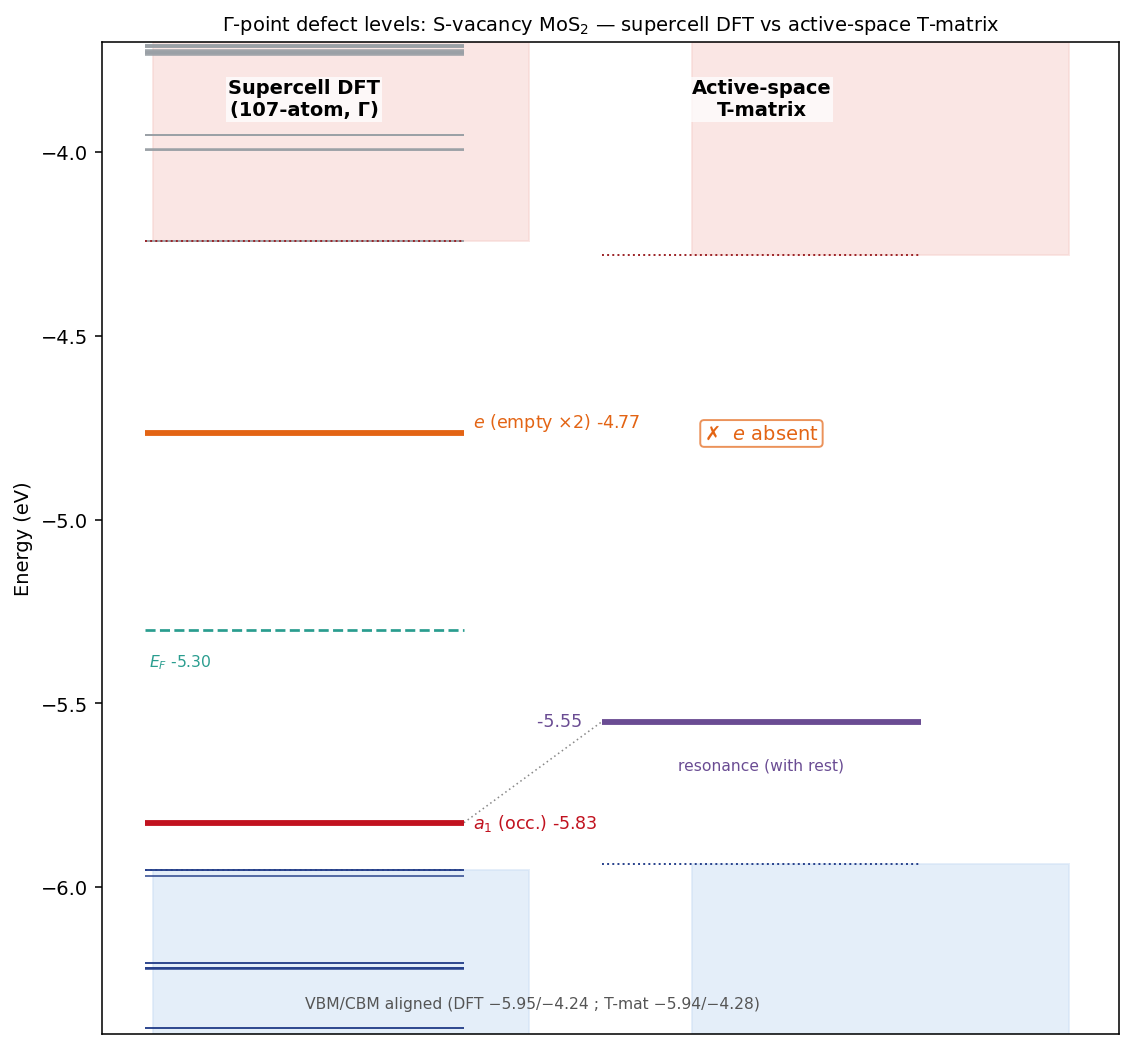
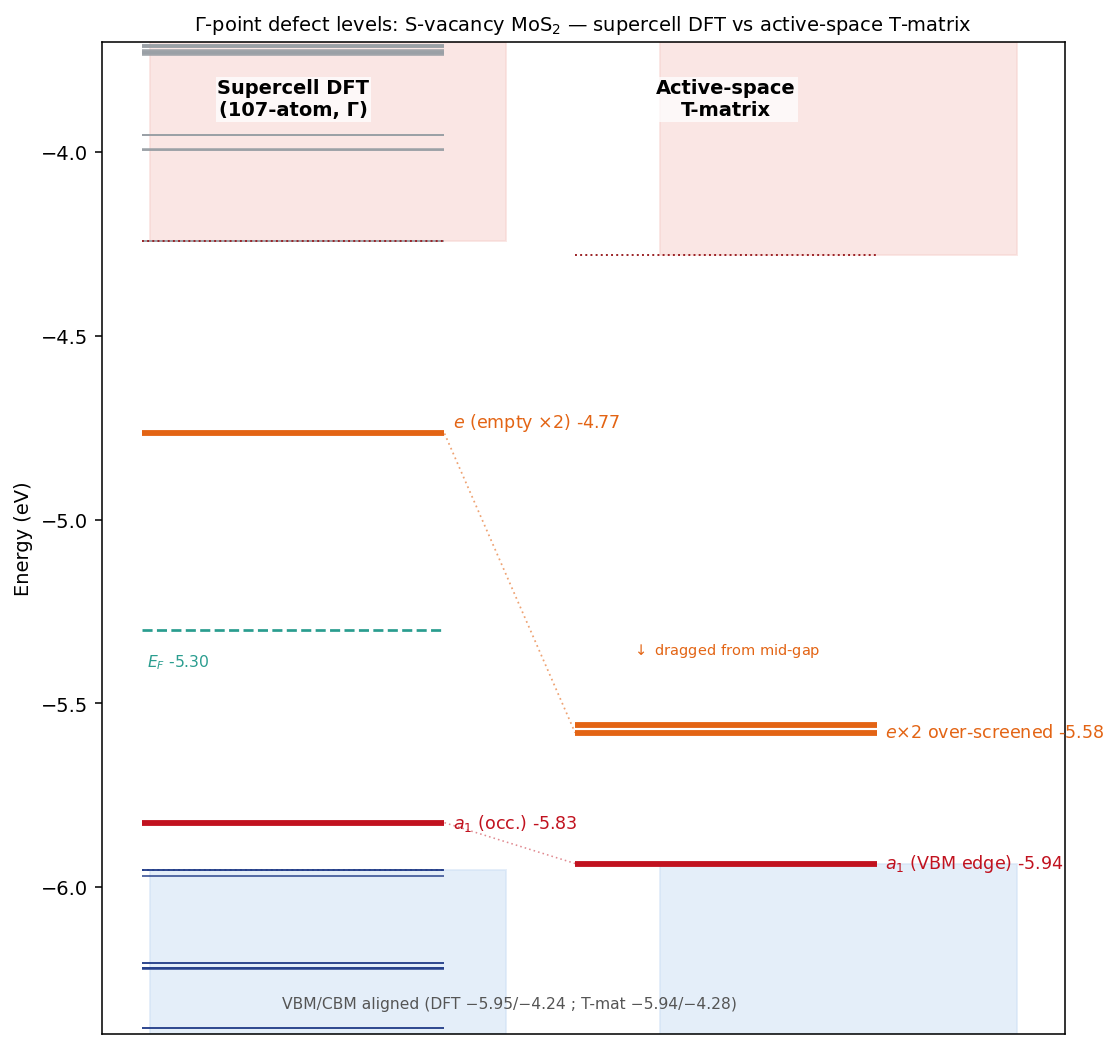
Results: add defect-induced dDOS (Fig 15); correct the e over-screening story
Add the three-panel defect-induced dDOS (explicit 21-band bare M; active-space 11-band bare M; 11-band + 2nd-order rest dressing). Panels (1) and (2) are nearly identical -- e peak deep in the gap -- while the 2nd-order rest dressing over-screens the e ~1.1 eV down onto the VBM. This isolates the cause: the 2nd-order Born Sigma, not the active-space size or the Wannier downfolding.

Correct two now-superseded claims this analysis overturns: Fig 13 (remade) drew the active-space result as 'e absent / single a1 resonance' -- it is actually the over-screened e doublet at +0.36 eV with the a1 pinned to the VBM edge. Fig 14 text re-attributed the shortfall to the rest dressing alone (bare M binds the e at 11 OR 21 bands). Updated catalog row; renumbered Figs 15->20.

diff --git a/docs/pages/results.html b/docs/pages/results.html
@@ -92,13 +92,18 @@ $$A(k,\omega)=-\tfrac1\pi\,\mathrm{Im}\,\mathrm{Tr}\,\big[\,\omega-H_0(k)-\Sigma
 <p><em>Figure 12. Multiband spectral function from the <strong>un-aligned</strong> block (<code>pot_align=&#x27;none&#x27;</code>, same $\omega_0=-5.955$ eV and window as Figure 10). It is essentially identical to Figure 10. Dropping the alignment shifts the bare $M$ diagonal by a <strong>uniform</strong> $-0.42$ eV (the G$=0$ component of $\Delta V$, $\mathrm{std}=0$), but in the dilute-defect Dyson $H_{\rm eff}=E+\tilde V/N_k$ that constant is divided by $N_k=144\to\sim3$ meV, and the genuinely non-constant (off-diagonal) part differs by only $0.5\%$ of $\lVert M\rVert$. The result: the a$_1$-like resonance stays at $-5.57$ eV ($\pm0.02$) and the $e$ doublet stays absent. So the alignment is <strong>not</strong> the cause of the missing $e$ — the G$=0$ offset washes out in the dilute limit, consistent with the structural diagnosis.</em></p>
 <h3>Benchmark against the supercell: where do the defect levels sit?</h3>
 <p>How faithful is that resonance? The direct check is the S-vacancy <strong>supercell</strong> itself — a $6\times6$ MoS$_2$ cell (107 atoms, one S removed), whose Γ-point Kohn–Sham levels <em>are</em> the defect levels. Aligning the two pictures on a common VBM/CBM:</p>
-<p><img src="../assets/vtilde_defect_levels.png" alt="Gamma-point defect-level diagram: supercell DFT shows an a1 singlet just above the VBM and an e doublet mid-gap, while the active-space T-matrix shows one resonance near the a1 and no e level." style="max-width:100%;height:auto;display:block;margin:1.2rem auto;border:1px solid #d0d7de;border-radius:6px"></p>
-<p><em>Figure 13. Γ-point defect levels of the S-vacancy — <strong>supercell DFT</strong> (left) vs the <strong>active-space $T$-matrix</strong> (right), VBM/CBM aligned. DFT gives the textbook $C_{3v}$ pattern of the three Mo dangling bonds: an <strong>$a_1$ singlet</strong> (HOMO, occupied) at $-5.83$ eV, only $+0.13$ eV above the VBM, and an <strong>$e$ doublet</strong> (LUMO, empty) at $-4.77$ eV, $+1.19$ eV above the VBM (deep in the gap); the Fermi level $E_F=-5.30$ eV lies between them; bulk gap $1.71$ eV. The $T$-matrix (with rest-space) reproduces the band edges (gap $1.66$ eV) and a single resonance at $-5.55$ eV — essentially the $a_1$, placed $\sim0.28$ eV too high — but <strong>misses the $e$ doublet entirely</strong>. The reason is concrete: the rest dressing uses a single static reference $\omega_0=\varepsilon_{\rm VBM}$, so it binds the level living </em>at<em> the reference (the $a_1$, $+0.13$ eV) but not the one far from it (the $e$, $+1.19$ eV), where $\Sigma(\omega_0)$ is the wrong dressing and the bare $M$ binds nothing. <strong>We tested this</strong> with a second static reference $\omega_0'=-4.8$ eV (Figure 11): it does <strong>not</strong> bind the $e$ either — the upper-gap spectral weight is unchanged. So a shifted static reference is insufficient; the $e$'s absence is <strong>structural</strong> (the downfolded $\tilde V$ / active space cannot pull a conduction-derived state into the gap), and recovering it likely needs the full frequency-dependent $\Sigma_{\rm rest}(\omega)$ or a larger active space, not merely a different reference energy.</em></p>
+<p><img src="../assets/vtilde_defect_levels.png" alt="Gamma-point defect-level diagram: supercell DFT shows an a1 singlet just above the VBM and an e doublet mid-gap; the active-space T-matrix with 2nd-order rest dressing keeps the a1 at the VBM edge but over-screens the e doublet down from mid-gap to near the VBM." style="max-width:100%;height:auto;display:block;margin:1.2rem auto;border:1px solid #d0d7de;border-radius:6px"></p>
+<p><em>Figure 13. Γ-point defect levels of the S-vacancy — <strong>supercell DFT</strong> (left) vs the <strong>active-space $T$-matrix</strong> (right), VBM/CBM aligned. DFT gives the textbook $C_{3v}$ pattern of the three Mo dangling bonds: an <strong>$a_1$ singlet</strong> (HOMO, occupied) at $-5.83$ eV, only $+0.13$ eV above the VBM, and an <strong>$e$ doublet</strong> (LUMO, empty) at $-4.77$ eV, $+1.19$ eV above the VBM (deep in the gap); the Fermi level $E_F=-5.30$ eV lies between them; bulk gap $1.71$ eV. The active-space $T$-matrix <strong>with the 2nd-order rest dressing</strong> $\tilde V=M+\Sigma$ (right) reproduces the band edges (gap $1.66$ eV) and keeps the $a_1$ pinned to the VBM edge ($-5.94$, $+0.0005$), but the $e$ doublet is <strong>over-screened</strong>: instead of sitting mid-gap it is dragged down to $-5.58$ ($+0.36$), nearly onto the VBM. So the rest dressing does not </em>omit<em> the $e$ — it puts it at the wrong energy. (That $-5.6$ feature, which we first read as a single $a_1$-like resonance, is in fact the <strong>doubly-degenerate $e$</strong>, over-bound by $\sim1.1$ eV, with the true $a_1$ left at the VBM.) The next two figures pin the cause: the bare $M$ already binds the $e$ in the gap — at 11 <strong>or</strong> 21 bands — and it is the 2nd-order Born $\Sigma$ that over-screens it.</em></p>
 <h3>Resolved: an explicit 21-band $T$-matrix recovers the $e$ doublet</h3>
 <p>That diagnosis has a direct test: keep the conduction manifold <strong>explicitly</strong> instead of downfolding it. We did exactly that, in the most stripped-down form possible — <strong>no Wannier, no downfolding, no rest dressing</strong>. On the full $12\times12$ grid we built the bare Bloch matrix $M_{nk,mk'}=\langle nk|\Delta V|mk'\rangle$ over $\approx21$ bands per $k$ (NSCF bands $7$–$28$, spanning the window $[-11.8,+6]$ eV about the gap) — a single $3002\times3002$ matrix — and read the defect levels straight off it as the in-gap eigenvalues of $H_{\rm eff}=\mathrm{diag}(\varepsilon_{nk})+M/N_k$. There is no self-energy here ($\Sigma\equiv0$, so $\tilde V=M$); the DOS follows from the same matrix via $T=[1-VG^A]^{-1}V$ with $V=M/N_k$.</p>
 <p><img src="../assets/vtilde_explicit_dos.png" alt="Left: explicit non-Wannier T-matrix DOS in the gap, with a distinct in-gap e peak rising above the empty bare-host DOS. Right: defect-level diagram, explicit 21-band T-matrix (a1 singlet + e doublet) vs DFT supercell, VBM/CBM aligned." style="max-width:100%;height:auto;display:block;margin:1.2rem auto;border:1px solid #d0d7de;border-radius:6px"></p>
-<p><em>Figure 14. <strong>The explicit 21-band $T$-matrix recovers both defect levels.</strong> <strong>Left:</strong> density of states in the gap (zoomed) — the bare host (grey dashed) is empty between the band edges, while the $T$-matrix DOS (blue) carries a distinct <strong>in-gap peak</strong> ($12.6$ states/eV) at $-4.59$ eV: the $e$ state. <strong>Right:</strong> in-gap eigenvalues of $H_{\rm eff}=\mathrm{diag}(\varepsilon)+M/N_k$ vs the DFT supercell, VBM/CBM aligned. The explicit calculation gives an <strong>$a_1$ singlet</strong> at $-5.93$ eV (at the VBM edge, $+0.01$) and a <strong>doubly-degenerate $e$ at $-4.59$ eV</strong> ($+1.35$ above the VBM) — the full $C_{3v}$ $a_1\oplus e$ pattern of the three Mo dangling bonds, matching DFT ($a_1$ $-5.83/+0.13$; $e$ $-4.77/+1.19$) to $\lesssim0.18$ eV. The two-fold degeneracy of the $e$ ($-4.588$ twice) comes out automatically. So the missing $e$ in Figure 13 was the <strong>downfolding + 2nd-order (Born) rest dressing</strong>, not the physics: once enough conduction bands are kept explicitly, the conduction-derived $e$ is pulled into the gap. The $1/N_k$ normalization is essential — dropping it ($H=\mathrm{diag}(\varepsilon)+M$) yields $69$ spurious "in-gap" eigenvalues instead of three.</em></p>
-<p>This is the cleanest confirmation that the framework is sound and the earlier shortfall was an <em>approximation</em>, not a wall: the active-space + Born-$\Sigma$ pipeline traded the $e$ for speed; the explicit Bloch inversion — $\sim\!46$ min on one node for $M$, then a $3002\times3002$ solve — pays the $\mathcal{O}(N_b^2)$ price and gets it back. The remaining $\lesssim0.18$ eV offsets (the $e$ a touch high, the $a_1$ pinned to the VBM edge) are the finite $12\times12$ sampling and the 21-band truncation, not the qualitative structure.</p>
+<p><em>Figure 14. <strong>The explicit 21-band $T$-matrix recovers both defect levels.</strong> <strong>Left:</strong> density of states in the gap (zoomed) — the bare host (grey dashed) is empty between the band edges, while the $T$-matrix DOS (blue) carries a distinct <strong>in-gap peak</strong> ($12.6$ states/eV) at $-4.59$ eV: the $e$ state. <strong>Right:</strong> in-gap eigenvalues of $H_{\rm eff}=\mathrm{diag}(\varepsilon)+M/N_k$ vs the DFT supercell, VBM/CBM aligned. The explicit calculation gives an <strong>$a_1$ singlet</strong> at $-5.93$ eV (at the VBM edge, $+0.01$) and a <strong>doubly-degenerate $e$ at $-4.59$ eV</strong> ($+1.35$ above the VBM) — the full $C_{3v}$ $a_1\oplus e$ pattern of the three Mo dangling bonds, matching DFT ($a_1$ $-5.83/+0.13$; $e$ $-4.77/+1.19$) to $\lesssim0.18$ eV. The two-fold degeneracy of the $e$ ($-4.588$ twice) comes out automatically. So the shortfall in Figure 13 is the <strong>2nd-order (Born) rest dressing</strong> alone — not the active-space size or the downfolding: the bare $M$ already binds the $e$ even in the 11-band window, and the larger explicit space only refines its position (Figure 15 isolates this). The $1/N_k$ normalization is essential — dropping it ($H=\mathrm{diag}(\varepsilon)+M$) yields $69$ spurious "in-gap" eigenvalues instead of three.</em></p>
+<p>This is the cleanest confirmation that the framework is sound and the earlier shortfall was an <em>approximation</em>, not a wall: the active-space + Born-$\Sigma$ pipeline <strong>over-screened</strong> the $e$ (Figure 15); the explicit Bloch inversion — $\sim\!46$ min on one node for $M$, then a $3002\times3002$ solve — pays the $\mathcal{O}(N_b^2)$ price and gets it back at the right energy. The remaining $\lesssim0.18$ eV offsets (the $e$ a touch high, the $a_1$ pinned to the VBM edge) are the finite $12\times12$ sampling and the 21-band truncation, not the qualitative structure.</p>
+<h3>Pinpointing the cause: bare $M$ agrees, the 2nd-order dressing over-screens</h3>
+<p>The defect-induced $\Delta\mathrm{DOS}=-\tfrac1\pi\,\mathrm{Im}\,\mathrm{Tr}\,[G^A T G^A]$ makes the mechanism unmistakable. The bare host has no states in the gap, so every in-gap feature of $\Delta\mathrm{DOS}$ <em>is</em> a defect level; computed three ways on one common grid and broadening:</p>
+<p><img src="../assets/vtilde_ddos_three.png" alt="Three stacked defect-induced delta-DOS panels on a common axis: (1) explicit 21-band bare M and (2) active-space 11-band bare M are nearly identical with a tall e peak deep in the gap; (3) the 11-band with 2nd-order rest dressing has its e peak over-screened down to near the VBM, leaving the mid-gap flat." style="max-width:100%;height:auto;display:block;margin:1.2rem auto;border:1px solid #d0d7de;border-radius:6px"></p>
+<p><em>Figure 15. Defect-induced $\Delta\mathrm{DOS}$ of the S-vacancy, three treatments on one grid ($\eta=50$ meV). <strong>(1) explicit 21-band</strong> (bare $M$) and <strong>(2) active-space 11-band</strong> (bare $M$) are <strong>nearly identical</strong> — a tall, clean $e$ peak deep in the gap (at $-4.59$ / $-4.44$ eV, i.e. $+1.35$ / $+1.50$ above the VBM), with the shallow $a_1$ blended into the VBM edge. Neither the band count nor the Wannier/downfolding changes the bare-$M$ answer. <strong>(3) 11 bands $+$ 2nd-order rest space</strong> ($\tilde V=M+\Sigma$): the $e$ peak <strong>collapses $\sim1.1$ eV down to $-5.58$ eV</strong> ($+0.36$), nearly onto the VBM, leaving the mid-gap flat. That is the whole story of the "missing" $e$ — it is not omitted, it is dragged to the wrong energy by the Born self-energy. The negative dips at the band edges are the compensating spectral-weight depletion ($\int\Delta\mathrm{DOS}\,d\omega\simeq0$; Friedel/Levinson).</em></p>
+<p>The lesson is sharp: in this system the <strong>2nd-order (Born) rest dressing is an over-screening, not an improvement</strong> — the bare explicit $M$, paying the $\mathcal{O}(N_b^2)$ cost of carrying the conduction bands directly, is the more faithful object. A correct rest dressing here would need to go beyond 2nd order (or use the full frequency-dependent $\Sigma_{\rm rest}(\omega)$), not the static Born $\Sigma(\omega_0)$.</p>
 </section>
 <section id="sec-4"><h2>4. Wannier representation and locality (P5-b)</h2>
 <p>The textbook way to avoid the large $(N_b N_k)$ inversion on fine grids is the Koster–Slater / defect-Green's-function trick: rotate $\tilde V$ to a localized Wannier basis, $\tilde V^W(R',R)=\!\big[U^\dagger(k_f)\,\tilde V(k_f,k_i)\,U(k_i)\big]$ Fourier-transformed, and invert only on the defect's compact support. This requires $\tilde V^W(R',R)$ to be short-ranged — which in turn requires the Wannier rotation $U(k)$ to be in the <strong>same Bloch gauge</strong> as the $\psi_{nk}$ that build $M$ (exactly the consistency EDI's <code>edbloch2wane</code> enforces by construction).</p>
@@ -106,21 +111,21 @@ $$A(k,\omega)=-\tfrac1\pi\,\mathrm{Im}\,\mathrm{Tr}\,\big[\,\omega-H_0(k)-\Sigma
 <p>The fix is to <strong>re-Wannierize on the 150-band NSCF with the identical Wannier space</strong> — same projections (Mo:$d$, S:$p$), same windows, the same 11 valence bands 7–17 (<code>exclude_bands = 1-6,
 18-150</code>) — giving a <code>filukk</code> consistent with the evc that build $M$ (its Wannier interpolation reproduces the NSCF bands to $2\times10^{-5}$ eV).</p>
 <p><img src="../assets/vtilde_gauge_fix.png" alt="Electron-index decay of M before (left, q!=0 flat) and after (right, all q decay) the gauge fix." style="max-width:100%;height:auto;display:block;margin:1.2rem auto;border:1px solid #d0d7de;border-radius:6px"></p>
-<p><em>Figure 15. Electron-index decay $\lVert M^W(R_e;q)\rVert$. <strong>Left (old <code>filukk</code>, 17-band run):</strong> $q\!\neq\!0$ is flat — the gauge mismatch. <strong>Right (new <code>filukk</code>, re-Wannierized on the 150-band NSCF):</strong> every $q$ now decays together by $\sim10^{3}\times$ over $\sim5$ cells.</em></p>
+<p><em>Figure 16. Electron-index decay $\lVert M^W(R_e;q)\rVert$. <strong>Left (old <code>filukk</code>, 17-band run):</strong> $q\!\neq\!0$ is flat — the gauge mismatch. <strong>Right (new <code>filukk</code>, re-Wannierized on the 150-band NSCF):</strong> every $q$ now decays together by $\sim10^{3}\times$ over $\sim5$ cells.</em></p>
 <p><strong>With the consistent gauge, $\tilde V^W$ is localized.</strong> Wannierizing the downfolded potential $\tilde V=M+\Sigma$ itself (both Bloch indices) gives a short-ranged object: peaked on the defect cell and decaying $\sim250\times$, both as a two-point matrix and in the electron index for every momentum transfer $q$.</p>
 <p><img src="../assets/vtilde_W_locality.png" alt="Wannierized downfolded potential V~^W: both-index locality (left, old flat vs new peaked+decaying) and electron-index decay (right, all q decay)." style="max-width:100%;height:auto;display:block;margin:1.2rem auto;border:1px solid #d0d7de;border-radius:6px"></p>
-<p><em>Figure 16. Wannierization of $\tilde V$ and its locality. <strong>Left:</strong> both-index $\lVert\tilde V^W(R',R)\rVert_F$ by shell $\max(|R'|,|R|)$ — flat with the mismatched gauge (red), but with <code>filukk_150</code> (blue) it peaks on the defect cell ($\sim3$ cells from the Wannier origin) and decays $\sim250\times$. <strong>Right:</strong> electron-index $\lVert\tilde V^W(R_e;q)\rVert$ decays $\sim10^{3}\times$ for every $q$ — $\tilde V^W$ is genuinely short-ranged.</em></p>
+<p><em>Figure 17. Wannierization of $\tilde V$ and its locality. <strong>Left:</strong> both-index $\lVert\tilde V^W(R',R)\rVert_F$ by shell $\max(|R'|,|R|)$ — flat with the mismatched gauge (red), but with <code>filukk_150</code> (blue) it peaks on the defect cell ($\sim3$ cells from the Wannier origin) and decays $\sim250\times$. <strong>Right:</strong> electron-index $\lVert\tilde V^W(R_e;q)\rVert$ decays $\sim10^{3}\times$ for every $q$ — $\tilde V^W$ is genuinely short-ranged.</em></p>
 <p>A real-space cut makes the localization concrete. The <strong>on-site</strong> block $\tilde V^W_{ij}(R,R)$ (same cell $R$, an $11\times11$ Wannier matrix) is largest on the defect cell — here $R_d=(3,3)$, dominant orbital $|\tilde V^W_{55}(R_d,R_d)|=0.52$ Ry — and for a fixed pair $(i,j)$ it falls off with the minimum-image distance of $R$ from the defect:</p>
 <p><img src="../assets/vtilde_onsite_decay.png" alt="On-site |V~^W_ij(R,R)| for a fixed Wannier pair vs distance from the defect; drops 0.52 Ry to ~1e-3 in one cell, envelope decay length ~2 Angstrom." style="max-width:100%;height:auto;display:block;margin:1.2rem auto;border:1px solid #d0d7de;border-radius:6px"></p>
-<p><em>Figure 17. On-site downfolded potential $|\tilde V^W_{ij}(R,R)|$ for a fixed Wannier pair (dominant $i\!=\!j\!=\!6$; $(1,1)$ and $(1,2)$ shown for context) vs the minimum-image distance of cell $R$ from the defect. It drops from $0.52$ Ry on the defect cell to $\sim\!10^{-3}$ Ry one cell ($\sim3.2$ Å) away, with envelope decay length $\lambda\approx2$ Å ($<1$ cell) — the downfolded potential is confined to the defect site.</em></p>
+<p><em>Figure 18. On-site downfolded potential $|\tilde V^W_{ij}(R,R)|$ for a fixed Wannier pair (dominant $i\!=\!j\!=\!6$; $(1,1)$ and $(1,2)$ shown for context) vs the minimum-image distance of cell $R$ from the defect. It drops from $0.52$ Ry on the defect cell to $\sim\!10^{-3}$ Ry one cell ($\sim3.2$ Å) away, with envelope decay length $\lambda\approx2$ Å ($<1$ cell) — the downfolded potential is confined to the defect site.</em></p>
 <p>The localized $\tilde V^W$ is exactly what makes the truncated Koster–Slater inversion $T=[1-\tilde V^W G^A]^{-1}\tilde V^W$ converge quickly:</p>
 <div class="table-wrap"><table><thead><tr><th>$R_{\rm cut}$</th><th>subspace dim</th><th>$\lVert T\rVert$ old (mismatched gauge)</th><th>$\lVert T\rVert$ new (consistent gauge)</th></tr></thead><tbody><tr><td>2</td><td>275</td><td>0.057</td><td>0.057</td></tr><tr><td>3</td><td>539</td><td>0.19</td><td>1.72</td></tr><tr><td>4</td><td>891</td><td>0.59</td><td><strong>2.06 (99.6%)</strong></td></tr><tr><td>6</td><td>1584</td><td>2.06</td><td>2.06</td></tr></tbody></table></div>
 <p><img src="../assets/vtilde_ks_converge.png" alt="Koster-Slater truncation: ||T(Rcut)|| vs cutoff, converges by Rcut=4 with the consistent gauge." style="max-width:100%;height:auto;display:block;margin:1.2rem auto;border:1px solid #d0d7de;border-radius:6px"></p>
-<p><em>Figure 18. Koster–Slater truncation $\lVert T(R_{\rm cut})\rVert$ vs the cutoff radius (subspace dimension under each tick). With the gauge-consistent <code>filukk_150</code> (blue) the inversion converges by $R_{\rm cut}=4$ (dim 891, $\sim56\%$ of the full 1584); with the mismatched gauge (red) it only reaches the full value at the full subspace. The localized $\tilde V^W$ is what makes the truncation effective — the payoff of the gauge fix.</em></p>
+<p><em>Figure 19. Koster–Slater truncation $\lVert T(R_{\rm cut})\rVert$ vs the cutoff radius (subspace dimension under each tick). With the gauge-consistent <code>filukk_150</code> (blue) the inversion converges by $R_{\rm cut}=4$ (dim 891, $\sim56\%$ of the full 1584); with the mismatched gauge (red) it only reaches the full value at the full subspace. The localized $\tilde V^W$ is what makes the truncation effective — the payoff of the gauge fix.</em></p>
 <p>So the neutral S-vacancy potential <strong>is</strong> short-ranged, as expected — the earlier "flat $\tilde V^W$" was entirely the gauge mismatch, <em>not</em> a supercell-size or range-separation problem. On this coarse $12\times12$ grid the converged subspace ($R_{\rm cut}\!=\!4$) is $\sim56\%$ of the full one; on a finer $k$-grid the fixed $\sim$3–4-cell defect extent becomes a small fraction — which is where the Koster–Slater speed-up pays off. <strong>P3 (the $\tilde V$ block) and P5-a ($T_{PP}$ in the Bloch basis) use no Wannier rotation and were unaffected throughout.</strong></p>
 <p><strong>The fine-grid T-matrix, realized.</strong> The localized $\tilde V^W$ lets the active resummation use a <em>fine</em> host grid while still inverting only the small defect subspace. The host Green's function $G^A_{w'w}(\Delta R;\omega)=\frac1{N_f^2}\sum_{k}e^{2\pi i k\cdot\Delta R}\,[(\omega+i\eta)-H_W(k)]^{-1}$ is Wannier-interpolated on an $N_f\times N_f$ grid (from <code>hr.dat</code>), and $T=[1-\tilde V^W G^A]^{-1}\tilde V^W$ is solved in the <strong>891-dimensional</strong> defect subspace ($R_{\rm cut}=4$) — never the full $n_b N_f^2$ ($\approx10^5$ at $N_f=96$). It reproduces the coarse direct inversion at $N_f=12$ and converges by $N_f\approx24$:</p>
 <p><img src="../assets/vtilde_wannier_converge.png" alt="Wannier-basis active T-matrix converges with the host G^A k-grid: 2.06 at Nf=12 to 1.97 by Nf=24, flat to Nf=96." style="max-width:100%;height:auto;display:block;margin:1.2rem auto;border:1px solid #d0d7de;border-radius:6px"></p>
-<p><em>Figure 19. Convergence of the Wannier-basis active T-matrix $\lVert T_{PP}(\omega_0)\rVert$ with the host $G^A$ $k$-grid $N_f$. $N_f=12$ matches the coarse direct inversion (P5-a, $2.064$ Ry); the host converges by $N_f\approx24$ to $1.974$ Ry — the coarse $12\times12$ over-estimated by $\sim4.6\%$ (under-resolved band-edge DOS). The inversion stays $891$-dimensional at every $N_f$ — the payoff of the localized $\tilde V^W$.</em></p>
+<p><em>Figure 20. Convergence of the Wannier-basis active T-matrix $\lVert T_{PP}(\omega_0)\rVert$ with the host $G^A$ $k$-grid $N_f$. $N_f=12$ matches the coarse direct inversion (P5-a, $2.064$ Ry); the host converges by $N_f\approx24$ to $1.974$ Ry — the coarse $12\times12$ over-estimated by $\sim4.6\%$ (under-resolved band-edge DOS). The inversion stays $891$-dimensional at every $N_f$ — the payoff of the localized $\tilde V^W$.</em></p>
 </section>
 <section id="sec-5"><h2>5. On the magnitude of $\tilde V$</h2>
 <p>The Frobenius norm $\lVert\tilde V\rVert_F=100$ Ry can look alarming, but the <em>individual</em> matrix elements are small (RMS $\approx0.06$ Ry, on-site $\tilde V_{nn}\approx-0.12$ Ry): the norm is large only because it root-sum-squares $\sim2.5$ million matrix elements. The raw eigenvalues ($\tilde V\in[-80.6,+26.5]$ Ry, $M$ up to $211$ Ry) are the discrete-basis values; the physical scattering operator carries the BZ measure $1/N_k$ (it enters every $T$-matrix product through $G^A$), so the physical eigenvalues are $\sim\lambda/N_k\approx0.5$–$1.5$ Ry — bounded by $\max|\Delta V|\approx12$ Ry and giving a multiple-scattering parameter $\lVert\tilde V G^A\rVert\sim\mathcal O(1)$ (strong but sensible; the $T$-matrix resummation is essential, possibly resonant). See the <a href="note-kprime-normalization.html">$k'$-normalization note</a>.</p>

diff --git a/docs/index.html b/docs/index.html
@@ -13,7 +13,7 @@
 <tr><td><strong>Note: $k'$-sum normalization (P2&rarr;P3)</strong></td><td>Note</td><td>2026-05-28</td><td><span class="badge ok">Resolved</span></td><td>The rest-space $k'$-sum is a BZ-integral discretization ⇒ carries $1/N_k$, turning the naive $\sum_{k'}\!\approx\!-70$ Ry into the physical $\Sigma_{nn}\!\approx\!-0.5$ Ry. Closure sum rule + Born-limit mobility anchor to confirm (and expose any residual $N_{sc}$).</td><td><a href="pages/note-kprime-normalization.html">Open implementation note &rarr;</a></td></tr>
 <tr><td><strong>Downfolded potential $\tilde V=M+\Sigma$ (diagonal + full block)</strong></td><td>Result</td><td>2026-06-01</td><td><span class="badge prod">Complete</span></td><td>Beyond-Born $\tilde V$ on the MoS&#8322; active manifold from the per-$k'$ Sternheimer solve summed over the full BZ with $1/N_k$: diagonal (closure-validated) and the full $1584\times1584$ block via a pool-parallel $k'$-sum (Hermitian to $9\times10^{-12}$). Moderate rest dressing &mdash; VBM (band 13, $K$): $\tilde V_{nn}=+0.112$ Ry ($M=+0.246$, $\Sigma=-0.134$); $\lVert\Sigma\rVert/\lVert M\rVert=0.66$.</td><td><a href="pages/results.html">Open numerical results &rarr;</a></td></tr>
 <tr><td><strong>Active-space $T$-matrix $T_{PP}$ (P5-a)</strong></td><td>Result</td><td>2026-06-01</td><td><span class="badge prod">Complete</span></td><td>Coarse-grid resummation $T_{PP}=[1-\tilde V G^A]^{-1}\tilde V$ ($G^A$ carries $1/N_k$). Born-limit validated ($T\!\to\!\tilde V$ to $10^{-4}$). On the VBM (band 13), rest-space <em>redistributes</em> the resummed scattering &mdash; screens the forward channel but enhances the norm ($\lVert T_{PP}\rVert\!=\!177$ vs $\lVert T_M\rVert\!=\!70$ Ry); resonant at the band edge.</td><td><a href="pages/results.html#sec-2">Open results &rarr;</a></td></tr>
-<tr><td><strong>Defect levels recovered: explicit 21-band $T$-matrix</strong></td><td>Result</td><td>2026-06-08</td><td><span class="badge prod">Complete</span></td><td>Benchmarked against the S-vacancy supercell (&Gamma;-point KS levels): the active-space + Born-$\Sigma$ pipeline reproduces the $a_1$ but misses the $e$. Keeping the conduction manifold <em>explicitly</em> (raw Bloch $M=\langle nk|\Delta V|mk'\rangle$, $\approx21$ bands, $12\times12$, no Wannier / no downfolding) recovers the full $C_{3v}$ pattern &mdash; $a_1$ singlet ($+0.01$ eV above VBM) and $e$ doublet ($+1.35$ eV) &mdash; matching DFT to $\lesssim0.18$ eV. The missing $e$ was the approximation, not the physics.</td><td><a href="pages/results.html#sec-3">Open results &rarr;</a></td></tr>
+<tr><td><strong>Defect levels recovered: explicit 21-band $T$-matrix</strong></td><td>Result</td><td>2026-06-08</td><td><span class="badge prod">Complete</span></td><td>Benchmarked against the S-vacancy supercell (&Gamma;-point KS levels): the active-space + Born-$\Sigma$ pipeline keeps the $a_1$ but <em>over-screens</em> the $e$ (drags it to the VBM). Keeping the conduction manifold <em>explicitly</em> (raw Bloch $M=\langle nk|\Delta V|mk'\rangle$, $\approx21$ bands, $12\times12$, no Wannier / no downfolding) recovers the full $C_{3v}$ pattern &mdash; $a_1$ singlet ($+0.01$ eV above VBM) and $e$ doublet ($+1.35$ eV) &mdash; matching DFT to $\lesssim0.18$ eV. The 2nd-order rest dressing, not the active space, was the culprit.</td><td><a href="pages/results.html#sec-3">Open results &rarr;</a></td></tr>
 <tr><td><strong>QE-Hamiltonian Sternheimer validation</strong></td><td>Test</td><td>2026-05-31</td><td><span class="badge ok">Complete</span></td><td>Per-$k$ solve of $Q(\omega_0-H_0)Q$ via projected PCG (QE <code>h_psi</code> matvec): $\langle\psi|H_0|\psi\rangle\!=\!\varepsilon$ gate to $6\times10^{-10}$ eV across all ranks; explicit rest-band sum converges to the all-band Sternheimer value (Born limit $T\!\to\!V$ at $10^{-13}$ Ry).</td><td><a href="pages/plan.html">see P0&ndash;P3 in the plan &rarr;</a></td></tr>
 <tr class="planned"><td><strong>Rest dressing ladder convergence</strong></td><td>Test</td><td>&mdash;</td><td><span class="badge plan">Planned</span></td><td>Successive-ratio $\lVert\tilde V^{(m+1)}-\tilde V^{(m)}\rVert/\lVert\tilde V^{(m)}-\tilde V^{(m-1)}\rVert$ vs. rest $k$-grid and band cutoff (geometric rate $\rho\sim\lVert V_{QQ}\rVert/\Delta$).</td><td>&mdash;</td></tr>
 <tr><td><strong>Wannier representation &amp; Koster&ndash;Slater (P5-b)</strong></td><td>Result</td><td>2026-06-01</td><td><span class="badge ok">Resolved</span></td><td>Wannierizing $\tilde V$ needs $U(k)$ in the same Bloch gauge as the evc that build $M$. The original <code>filukk</code> (a separate 17-band run) mismatched the 150-band NSCF evc, so $M^W(R_e;q{\neq}0)$ came out flat. Fixed by re-Wannierizing on the 150-band NSCF (same Wannier space): $M^W$ now decays $\sim\!10^3\times$, $\tilde V^W$ is localized, and Koster&ndash;Slater converges by $R_{\rm cut}{=}4$. The neutral defect is short-ranged &mdash; no supercell / range-separation issue.</td><td><a href="pages/results.html#sec-3">Open results &rarr;</a></td></tr>

diff --git a/tools/p6_ddos_three.py b/tools/p6_ddos_three.py
@@ -1,0 +1,65 @@
+#!/usr/bin/env python3
+"""Defect-induced ΔDOS(ω) = -1/π Im Tr[G^A T G^A] for three treatments, on one common (ω-grid, η):
+  (1) explicit summation, 21 bands, raw Bloch (bare M, no rest dressing)   [from p6_explicit_dos.npz]
+  (2) active-space 11 bands (bare M, no rest dressing)
+  (3) active-space 11 bands + 2nd-order rest space (dressed Ṽ = M + Σ, Σ from the full bands)
+ΔDOS ≈ 0 in the gap for the bare host, so the in-gap features ARE the defect levels (a1, e)."""
+import numpy as np, matplotlib; matplotlib.use("Agg"); import matplotlib.pyplot as plt
+from scipy.io import FortranFile
+RY=13.605693122994; ETA=0.05
+
+# --- case 1: explicit 21-band (already computed, same grid & eta) ---
+d=np.load("p6_explicit_dos.npz")
+oms=d["oms"]; VBM=float(d["VBM"]); CBM=float(d["CBM"])
+ddos1=d["dos"]-d["dos0"]
+
+# --- load the 11-band block (ε, bare M, dressed Ṽ) ---
+def load(fn):
+    fb=FortranFile(fn,"r")
+    N_A,nk,nk_use,nbndskip=fb.read_ints(np.int32)
+    fb.read_reals(np.float64); fb.read_ints(np.int32)
+    eps=fb.read_reals(np.float64)*RY; N=int(N_A)
+    M=fb.read_record(np.complex128).reshape((N,N),order="F")
+    fb.read_record(np.complex128)                       # Σ
+    Vt=fb.read_record(np.complex128).reshape((N,N),order="F")
+    fb.close(); return int(nk),eps,M,Vt
+nk,eps,M,Vt=load("vtilde_block.dat")
+
+def ddos(eps,nk,mat,oms,eta):
+    N=len(eps); I=np.eye(N); V=(1.0/nk)*mat*RY; out=np.empty(len(oms))
+    for j,om in enumerate(oms):
+        GA=1.0/(om+1j*eta-eps)
+        T=np.linalg.solve(I-V*GA[None,:],V)             # T=[1-VG^A]^{-1}V
+        out[j]=-(1/np.pi)*np.imag(np.sum(GA*GA*np.diag(T)))   # Tr[G^A T G^A]
+    return out
+ddos2=ddos(eps,nk,M,oms,ETA)                            # 11-band bare M
+ddos3=ddos(eps,nk,Vt,oms,ETA)                           # 11-band + 2nd-order rest
+np.savez("p6_ddos_three.npz",oms=oms,ddos1=ddos1,ddos2=ddos2,ddos3=ddos3,VBM=VBM,CBM=CBM)
+
+def peak(dd,lo=0.05,hi=0.02):
+    m=(oms>VBM+lo)&(oms<CBM-hi); i=np.argmax(np.where(m,dd,-1e9)); return oms[i],dd[i]
+
+cases=[("(1) explicit summation — 21 bands, bare $M$",ddos1,"#1f3b73"),
+       ("(2) active space — 11 bands, bare $M$",ddos2,"#2a7a2a"),
+       ("(3) 11 bands + 2nd-order rest space — $\\tilde V=M+\\Sigma$",ddos3,"#c1121f")]
+fig,axs=plt.subplots(3,1,figsize=(8.6,9),sharex=True)
+for ax,(ttl,dd,c) in zip(axs,cases):
+    ax.axvspan(oms[0],VBM,color="#cfe0f5",alpha=.5); ax.axvspan(CBM,oms[-1],color="#f6d3cf",alpha=.5)
+    ax.axhline(0,color="#bbb",lw=.6); ax.plot(oms,dd,c=c,lw=1.8)
+    ax.fill_between(oms,0,dd,where=(dd>0),color=c,alpha=.18)
+    pe,ph=peak(dd)
+    ax.annotate(f"$e$ peak @ {pe:.2f} eV",xy=(pe,ph),xytext=(pe+0.12,ph*0.65),
+                fontsize=9,color=c,arrowprops=dict(arrowstyle="->",color=c))
+    for e,nm,col in [(-5.83,"DFT $a_1$","#666"),(-4.77,"DFT $e$","#999")]:
+        ax.axvline(e,color=col,lw=.9,ls=":")
+        if ax is axs[0]: ax.text(e,ax.get_ylim()[1],nm,color=col,fontsize=8,rotation=90,va="top",ha="right")
+    ax.set_title(ttl,fontsize=10.5,loc="left"); ax.set_ylabel("$\\Delta$DOS (1/eV)")
+    ax.text(VBM-0.02,ax.get_ylim()[1]*0.9,"VBM",ha="right",fontsize=7,color="#26408b")
+    ax.text(CBM+0.02,ax.get_ylim()[1]*0.9,"CBM",ha="left",fontsize=7,color="#9b2226")
+axs[-1].set_xlim(VBM-0.25,CBM+0.15); axs[-1].set_xlabel("$\\omega$ (eV)")
+fig.suptitle("Defect-induced $\\Delta$DOS of the MoS$_2$ S-vacancy (12$\\times$12, $\\eta=50$ meV)",fontsize=12,y=0.997)
+plt.tight_layout(); plt.savefig("p6_ddos_three.png",dpi=140,bbox_inches="tight")
+print("wrote p6_ddos_three.png")
+print(f"e-peak  (1) explicit : {peak(ddos1)[0]:.3f} eV  (VBM+{peak(ddos1)[0]-VBM:.2f})")
+print(f"e-peak  (2) bare-M 11: {peak(ddos2)[0]:.3f} eV  (VBM+{peak(ddos2)[0]-VBM:.2f})")
+print(f"e-peak  (3) dressed  : {peak(ddos3)[0]:.3f} eV  (VBM+{peak(ddos3)[0]-VBM:.2f})")

diff --git a/tools/plot_supercell_levels.py b/tools/plot_supercell_levels.py
@@ -28,8 +28,10 @@ print(f"a1: {a1-VBM:+.3f} eV above VBM     e: {e_lvl-VBM:+.3f} above VBM ({e_lvl
 for j in range(homo-5,lumo+6):
     print(f"   state {j+1}: {ev[j]:+.4f} eV  occ={occ[j]:.2f}")
 
-# ----- active-space T-matrix result (this project) -----
-VBM_t,CBM_t=-5.937,-4.279; res_t=-5.55     # with-rest defect resonance
+# ----- active-space T-matrix result (this project), 2nd-order rest dressing -----
+# in-gap eigenvalues of H_eff=diag(eps)+Vtilde/N_k (vtilde_block.dat): a1 survives at the VBM edge;
+# the e doublet is over-screened down toward the VBM (its true mid-gap position dragged to +0.36 eV)
+VBM_t,CBM_t=-5.937,-4.279; a1_t=-5.936; e_t=-5.580
 
 fig,ax=plt.subplots(figsize=(8.2,7.6)); lo,hi=-6.4,-3.7
 xA=(0.05,0.42); xB=(0.58,0.95)             # two columns
@@ -47,19 +49,20 @@ ax.hlines(a1,*xA,color="#c1121f",lw=3,zorder=6)
 ax.hlines(e_lvl,xA[0],xA[1],color="#e36414",lw=3,zorder=6)
 ax.text(xA[1]+0.01,a1,f"$a_1$ (occ.) {a1:.2f}",va="center",fontsize=9,color="#c1121f")
 ax.text(xA[1]+0.01,e_lvl,f"$e$ (empty ×{e_deg}) {e_lvl:.2f}",va="bottom",fontsize=9,color="#e36414")
-# T-matrix: the single resonance + a marker for the missing e
-ax.hlines(res_t,*xB,color="#6a4c93",lw=3,zorder=6)
-ax.text(xB[0]-0.01,res_t,f"{res_t:.2f}  ",va="center",ha="right",fontsize=9,color="#6a4c93")
-ax.text((xB[0]+xB[1])/2,res_t-0.13,"resonance (with rest)",ha="center",fontsize=8,color="#6a4c93")
-ax.text((xB[0]+xB[1])/2,e_lvl,"✗  $e$ absent",ha="center",va="center",fontsize=10,color="#e36414",
-        bbox=dict(facecolor="white",alpha=0.7,edgecolor="#e36414",boxstyle="round,pad=0.2"))
+# T-matrix (2nd-order rest): a1 survives at the VBM edge; e doublet over-screened down toward the VBM
+ax.hlines(a1_t,*xB,color="#c1121f",lw=3,zorder=6)
+ax.text(xB[1]+0.01,a1_t,f"$a_1$ (VBM edge) {a1_t:.2f}",va="center",fontsize=9,color="#c1121f")
+ax.hlines(e_t,*xB,color="#e36414",lw=3,zorder=6); ax.hlines(e_t+0.02,*xB,color="#e36414",lw=3,zorder=6)
+ax.text(xB[1]+0.01,e_t,f"$e$×2 over-screened {e_t:.2f}",va="center",fontsize=9,color="#e36414")
+ax.text((xB[0]+xB[1])/2,e_t+0.20,"$\\downarrow$ dragged from mid-gap",ha="center",va="bottom",fontsize=7.5,color="#e36414")
 # edges + Fermi
 for (x0,x1),vb,cb in [(xA,VBM,CBM),(xB,VBM_t,CBM_t)]:
     ax.hlines(vb,x0,x1,color="#26408b",lw=1,ls=":"); ax.hlines(cb,x0,x1,color="#9b2226",lw=1,ls=":")
 ax.hlines(EF,xA[0],xA[1],color="#2a9d8f",lw=1.4,ls="--")
 ax.text(xA[0]+0.005,EF-0.10,f"$E_F$ {EF:.2f}",fontsize=8,color="#2a9d8f")
-# guide line linking a1 <-> resonance
-ax.plot([xA[1],xB[0]],[a1,res_t],color="#888",lw=0.8,ls=(0,(1,2)))
+# guide lines linking DFT <-> T-matrix levels (the e slopes steeply down -> over-screened)
+ax.plot([xA[1],xB[0]],[a1,a1_t],color="#c1121f",lw=0.8,ls=(0,(1,2)),alpha=.5)
+ax.plot([xA[1],xB[0]],[e_lvl,e_t],color="#e36414",lw=0.9,ls=(0,(1,2)),alpha=.6)
 ax.text(0.5,lo+0.07,"VBM/CBM aligned (DFT −5.95/−4.24 ; T-mat −5.94/−4.28)",ha="center",fontsize=8,color="#555")
 ax.set_xlim(0,1.18); ax.set_ylim(lo,hi); ax.set_xticks([]); ax.set_ylabel("Energy (eV)")
 ax.set_title("Γ-point defect levels: S-vacancy MoS$_2$ — supercell DFT vs active-space T-matrix",fontsize=10)

diff --git a/tools/build_site.py b/tools/build_site.py
@@ -407,10 +407,11 @@ CATALOG = [
      '<a href="pages/results.html#sec-2">Open results &rarr;</a>'),
     ("Defect levels recovered: explicit 21-band $T$-matrix", "Result", "2026-06-08", "prod", "Complete",
      "Benchmarked against the S-vacancy supercell (&Gamma;-point KS levels): the active-space + Born-$\\Sigma$ "
-     "pipeline reproduces the $a_1$ but misses the $e$. Keeping the conduction manifold <em>explicitly</em> "
-     "(raw Bloch $M=\\langle nk|\\Delta V|mk'\\rangle$, $\\approx21$ bands, $12\\times12$, no Wannier / no downfolding) "
-     "recovers the full $C_{3v}$ pattern &mdash; $a_1$ singlet ($+0.01$ eV above VBM) and $e$ doublet "
-     "($+1.35$ eV) &mdash; matching DFT to $\\lesssim0.18$ eV. The missing $e$ was the approximation, not the physics.",
+     "pipeline keeps the $a_1$ but <em>over-screens</em> the $e$ (drags it to the VBM). Keeping the conduction "
+     "manifold <em>explicitly</em> (raw Bloch $M=\\langle nk|\\Delta V|mk'\\rangle$, $\\approx21$ bands, $12\\times12$, "
+     "no Wannier / no downfolding) recovers the full $C_{3v}$ pattern &mdash; $a_1$ singlet ($+0.01$ eV above VBM) and "
+     "$e$ doublet ($+1.35$ eV) &mdash; matching DFT to $\\lesssim0.18$ eV. The 2nd-order rest dressing, not the active "
+     "space, was the culprit.",
      '<a href="pages/results.html#sec-3">Open results &rarr;</a>'),
     ("QE-Hamiltonian Sternheimer validation", "Test", "2026-05-31", "ok", "Complete",
      "Per-$k$ solve of $Q(\\omega_0-H_0)Q$ via projected PCG (QE <code>h_psi</code> matvec): "

diff --git a/content/note_tmatrix_results.md b/content/note_tmatrix_results.md
@@ -267,23 +267,20 @@ How faithful is that resonance? The direct check is the S-vacancy **supercell** 
 MoS$_2$ cell (107 atoms, one S removed), whose Γ-point Kohn–Sham levels *are* the defect levels.
 Aligning the two pictures on a common VBM/CBM:
 
-![Gamma-point defect-level diagram: supercell DFT shows an a1 singlet just above the VBM and an e doublet mid-gap, while the active-space T-matrix shows one resonance near the a1 and no e level.](../assets/vtilde_defect_levels.png)
+![Gamma-point defect-level diagram: supercell DFT shows an a1 singlet just above the VBM and an e doublet mid-gap; the active-space T-matrix with 2nd-order rest dressing keeps the a1 at the VBM edge but over-screens the e doublet down from mid-gap to near the VBM.](../assets/vtilde_defect_levels.png)
 
 *Figure 13. Γ-point defect levels of the S-vacancy — **supercell DFT** (left) vs the **active-space
 $T$-matrix** (right), VBM/CBM aligned. DFT gives the textbook $C_{3v}$ pattern of the three Mo dangling
 bonds: an **$a_1$ singlet** (HOMO, occupied) at $-5.83$ eV, only $+0.13$ eV above the VBM, and an
 **$e$ doublet** (LUMO, empty) at $-4.77$ eV, $+1.19$ eV above the VBM (deep in the gap); the Fermi level
-$E_F=-5.30$ eV lies between them; bulk gap $1.71$ eV. The $T$-matrix (with rest-space) reproduces the
-band edges (gap $1.66$ eV) and a single resonance at $-5.55$ eV — essentially the $a_1$, placed
-$\sim0.28$ eV too high — but **misses the $e$ doublet entirely**. The reason is concrete: the rest
-dressing uses a single static reference $\omega_0=\varepsilon_{\rm VBM}$, so it binds the level living
-*at* the reference (the $a_1$, $+0.13$ eV) but not the one far from it (the $e$, $+1.19$ eV), where
-$\Sigma(\omega_0)$ is the wrong dressing and the bare $M$ binds nothing. **We tested this** with a second
-static reference $\omega_0'=-4.8$ eV (Figure 11): it does **not** bind the $e$ either — the upper-gap
-spectral weight is unchanged. So a shifted static reference is insufficient; the $e$'s absence is
-**structural** (the downfolded $\tilde V$ / active space cannot pull a conduction-derived state into the
-gap), and recovering it likely needs the full frequency-dependent $\Sigma_{\rm rest}(\omega)$ or a larger
-active space, not merely a different reference energy.*
+$E_F=-5.30$ eV lies between them; bulk gap $1.71$ eV. The active-space $T$-matrix **with the 2nd-order
+rest dressing** $\tilde V=M+\Sigma$ (right) reproduces the band edges (gap $1.66$ eV) and keeps the $a_1$
+pinned to the VBM edge ($-5.94$, $+0.0005$), but the $e$ doublet is **over-screened**: instead of sitting
+mid-gap it is dragged down to $-5.58$ ($+0.36$), nearly onto the VBM. So the rest dressing does not *omit*
+the $e$ — it puts it at the wrong energy. (That $-5.6$ feature, which we first read as a single
+$a_1$-like resonance, is in fact the **doubly-degenerate $e$**, over-bound by $\sim1.1$ eV, with the true
+$a_1$ left at the VBM.) The next two figures pin the cause: the bare $M$ already binds the $e$ in the gap
+— at 11 **or** 21 bands — and it is the 2nd-order Born $\Sigma$ that over-screens it.*
 
 ### Resolved: an explicit 21-band $T$-matrix recovers the $e$ doublet
 
@@ -306,17 +303,42 @@ aligned. The explicit calculation gives an **$a_1$ singlet** at $-5.93$ eV (at t
 a **doubly-degenerate $e$ at $-4.59$ eV** ($+1.35$ above the VBM) — the full $C_{3v}$ $a_1\oplus e$
 pattern of the three Mo dangling bonds, matching DFT ($a_1$ $-5.83/+0.13$; $e$ $-4.77/+1.19$) to
 $\lesssim0.18$ eV. The two-fold degeneracy of the $e$ ($-4.588$ twice) comes out automatically. So the
-missing $e$ in Figure 13 was the **downfolding + 2nd-order (Born) rest dressing**, not the physics: once
-enough conduction bands are kept explicitly, the conduction-derived $e$ is pulled into the gap. The
+shortfall in Figure 13 is the **2nd-order (Born) rest dressing** alone — not the active-space size or the
+downfolding: the bare $M$ already binds the $e$ even in the 11-band window, and the larger explicit space
+only refines its position (Figure 15 isolates this). The
 $1/N_k$ normalization is essential — dropping it ($H=\mathrm{diag}(\varepsilon)+M$) yields $69$ spurious
 "in-gap" eigenvalues instead of three.*
 
 This is the cleanest confirmation that the framework is sound and the earlier shortfall was an
-*approximation*, not a wall: the active-space + Born-$\Sigma$ pipeline traded the $e$ for speed; the
-explicit Bloch inversion — $\sim\!46$ min on one node for $M$, then a $3002\times3002$ solve — pays the
-$\mathcal{O}(N_b^2)$ price and gets it back. The remaining $\lesssim0.18$ eV offsets (the $e$ a touch
-high, the $a_1$ pinned to the VBM edge) are the finite $12\times12$ sampling and the 21-band truncation,
-not the qualitative structure.
+*approximation*, not a wall: the active-space + Born-$\Sigma$ pipeline **over-screened** the $e$ (Figure
+15); the explicit Bloch inversion — $\sim\!46$ min on one node for $M$, then a $3002\times3002$ solve —
+pays the $\mathcal{O}(N_b^2)$ price and gets it back at the right energy. The remaining $\lesssim0.18$ eV
+offsets (the $e$ a touch high, the $a_1$ pinned to the VBM edge) are the finite $12\times12$ sampling and
+the 21-band truncation, not the qualitative structure.
+
+### Pinpointing the cause: bare $M$ agrees, the 2nd-order dressing over-screens
+
+The defect-induced $\Delta\mathrm{DOS}=-\tfrac1\pi\,\mathrm{Im}\,\mathrm{Tr}\,[G^A T G^A]$ makes the
+mechanism unmistakable. The bare host has no states in the gap, so every in-gap feature of
+$\Delta\mathrm{DOS}$ *is* a defect level; computed three ways on one common grid and broadening:
+
+![Three stacked defect-induced delta-DOS panels on a common axis: (1) explicit 21-band bare M and (2) active-space 11-band bare M are nearly identical with a tall e peak deep in the gap; (3) the 11-band with 2nd-order rest dressing has its e peak over-screened down to near the VBM, leaving the mid-gap flat.](../assets/vtilde_ddos_three.png)
+
+*Figure 15. Defect-induced $\Delta\mathrm{DOS}$ of the S-vacancy, three treatments on one grid
+($\eta=50$ meV). **(1) explicit 21-band** (bare $M$) and **(2) active-space 11-band** (bare $M$) are
+**nearly identical** — a tall, clean $e$ peak deep in the gap (at $-4.59$ / $-4.44$ eV, i.e. $+1.35$ /
+$+1.50$ above the VBM), with the shallow $a_1$ blended into the VBM edge. Neither the band count nor the
+Wannier/downfolding changes the bare-$M$ answer. **(3) 11 bands $+$ 2nd-order rest space**
+($\tilde V=M+\Sigma$): the $e$ peak **collapses $\sim1.1$ eV down to $-5.58$ eV** ($+0.36$), nearly onto
+the VBM, leaving the mid-gap flat. That is the whole story of the "missing" $e$ — it is not omitted, it is
+dragged to the wrong energy by the Born self-energy. The negative dips at the band edges are the
+compensating spectral-weight depletion ($\int\Delta\mathrm{DOS}\,d\omega\simeq0$; Friedel/Levinson).*
+
+The lesson is sharp: in this system the **2nd-order (Born) rest dressing is an over-screening, not an
+improvement** — the bare explicit $M$, paying the $\mathcal{O}(N_b^2)$ cost of carrying the conduction
+bands directly, is the more faithful object. A correct rest dressing here would need to go beyond 2nd
+order (or use the full frequency-dependent $\Sigma_{\rm rest}(\omega)$), not the static Born
+$\Sigma(\omega_0)$.
 
 ## 4. Wannier representation and locality (P5-b)
 
@@ -342,7 +364,7 @@ reproduces the NSCF bands to $2\times10^{-5}$ eV).
 
 ![Electron-index decay of M before (left, q!=0 flat) and after (right, all q decay) the gauge fix.](../assets/vtilde_gauge_fix.png)
 
-*Figure 15. Electron-index decay $\lVert M^W(R_e;q)\rVert$. **Left (old `filukk`, 17-band run):**
+*Figure 16. Electron-index decay $\lVert M^W(R_e;q)\rVert$. **Left (old `filukk`, 17-band run):**
 $q\!\neq\!0$ is flat — the gauge mismatch. **Right (new `filukk`, re-Wannierized on the 150-band
 NSCF):** every $q$ now decays together by $\sim10^{3}\times$ over $\sim5$ cells.*
 
@@ -353,7 +375,7 @@ momentum transfer $q$.
 
 ![Wannierized downfolded potential V~^W: both-index locality (left, old flat vs new peaked+decaying) and electron-index decay (right, all q decay).](../assets/vtilde_W_locality.png)
 
-*Figure 16. Wannierization of $\tilde V$ and its locality. **Left:** both-index
+*Figure 17. Wannierization of $\tilde V$ and its locality. **Left:** both-index
 $\lVert\tilde V^W(R',R)\rVert_F$ by shell $\max(|R'|,|R|)$ — flat with the mismatched gauge (red),
 but with `filukk_150` (blue) it peaks on the defect cell ($\sim3$ cells from the Wannier origin)
 and decays $\sim250\times$. **Right:** electron-index $\lVert\tilde V^W(R_e;q)\rVert$ decays
@@ -366,7 +388,7 @@ with the minimum-image distance of $R$ from the defect:
 
 ![On-site |V~^W_ij(R,R)| for a fixed Wannier pair vs distance from the defect; drops 0.52 Ry to ~1e-3 in one cell, envelope decay length ~2 Angstrom.](../assets/vtilde_onsite_decay.png)
 
-*Figure 17. On-site downfolded potential $|\tilde V^W_{ij}(R,R)|$ for a fixed Wannier pair (dominant
+*Figure 18. On-site downfolded potential $|\tilde V^W_{ij}(R,R)|$ for a fixed Wannier pair (dominant
 $i\!=\!j\!=\!6$; $(1,1)$ and $(1,2)$ shown for context) vs the minimum-image distance of cell $R$
 from the defect. It drops from $0.52$ Ry on the defect cell to $\sim\!10^{-3}$ Ry one cell
 ($\sim3.2$ Å) away, with envelope decay length $\lambda\approx2$ Å ($<1$ cell) — the downfolded
@@ -384,7 +406,7 @@ $T=[1-\tilde V^W G^A]^{-1}\tilde V^W$ converge quickly:
 
 ![Koster-Slater truncation: ||T(Rcut)|| vs cutoff, converges by Rcut=4 with the consistent gauge.](../assets/vtilde_ks_converge.png)
 
-*Figure 18. Koster–Slater truncation $\lVert T(R_{\rm cut})\rVert$ vs the cutoff radius (subspace
+*Figure 19. Koster–Slater truncation $\lVert T(R_{\rm cut})\rVert$ vs the cutoff radius (subspace
 dimension under each tick). With the gauge-consistent `filukk_150` (blue) the inversion converges
 by $R_{\rm cut}=4$ (dim 891, $\sim56\%$ of the full 1584); with the mismatched gauge (red) it only
 reaches the full value at the full subspace. The localized $\tilde V^W$ is what makes the truncation
@@ -407,7 +429,7 @@ inversion at $N_f=12$ and converges by $N_f\approx24$:
 
 ![Wannier-basis active T-matrix converges with the host G^A k-grid: 2.06 at Nf=12 to 1.97 by Nf=24, flat to Nf=96.](../assets/vtilde_wannier_converge.png)
 
-*Figure 19. Convergence of the Wannier-basis active T-matrix $\lVert T_{PP}(\omega_0)\rVert$ with the
+*Figure 20. Convergence of the Wannier-basis active T-matrix $\lVert T_{PP}(\omega_0)\rVert$ with the
 host $G^A$ $k$-grid $N_f$. $N_f=12$ matches the coarse direct inversion (P5-a, $2.064$ Ry); the host
 converges by $N_f\approx24$ to $1.974$ Ry — the coarse $12\times12$ over-estimated by $\sim4.6\%$
 (under-resolved band-edge DOS). The inversion stays $891$-dimensional at every $N_f$ — the payoff of